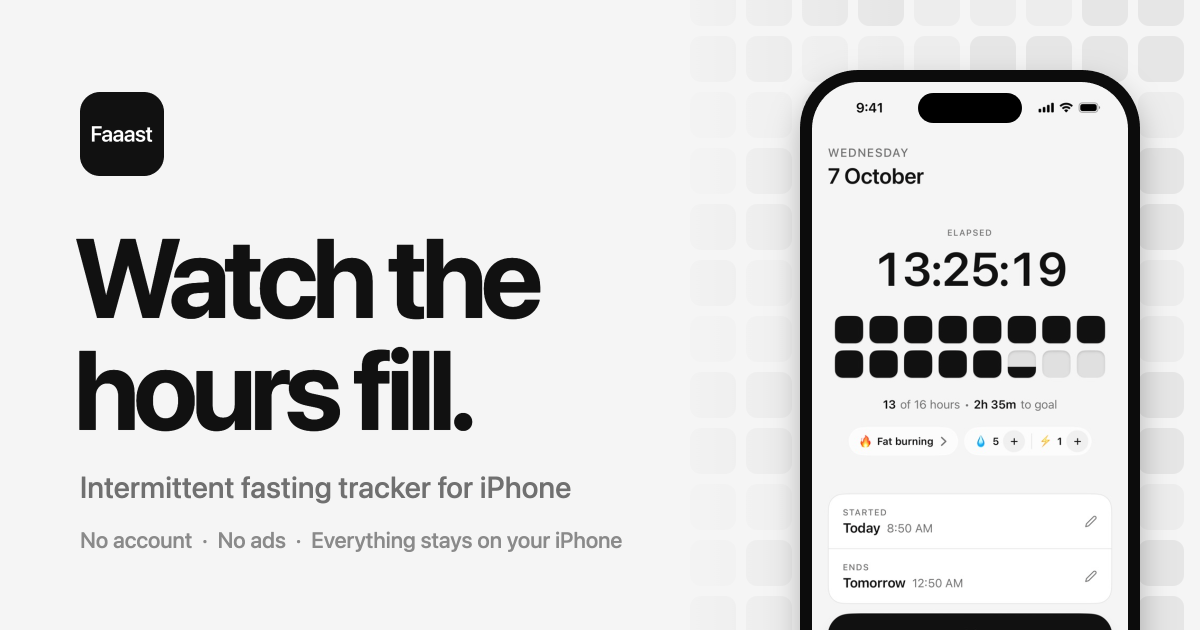
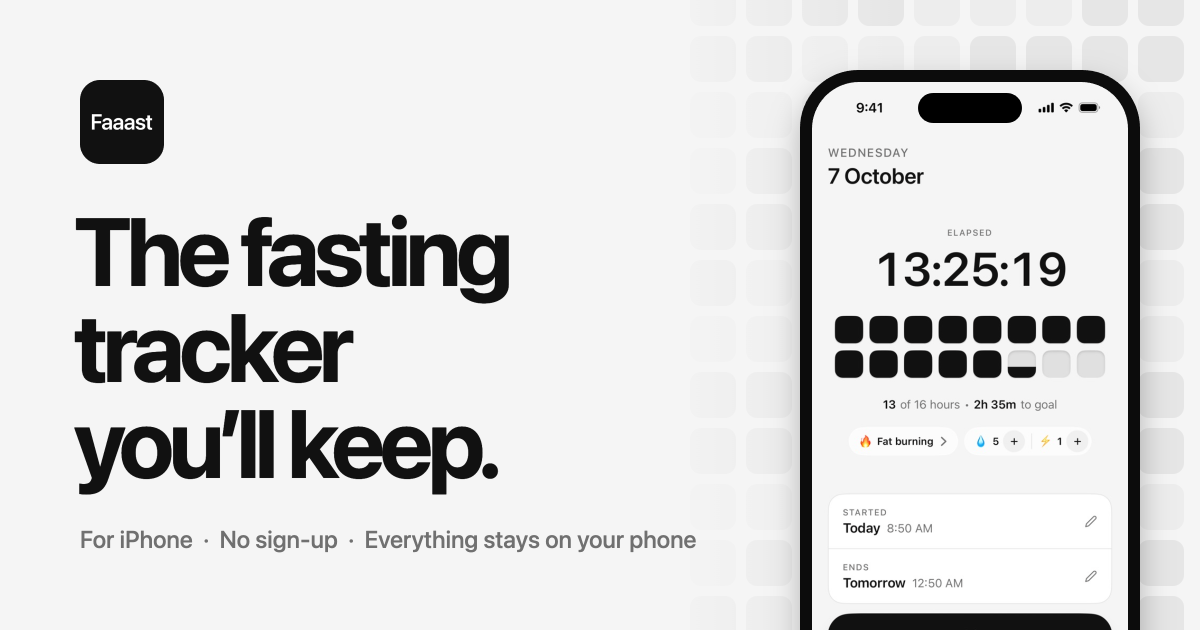
Hero: "The fasting tracker you'll keep."
Replaces "Watch the hours fill." The eyebrow becomes "Faaast for iPhone"
so it doesn't repeat "fasting tracker"; headline size adjusted for the
longer line. Share titles and the share card (img/og.png) updated.

diff --git a/index.html b/index.html
@@ -10,14 +10,14 @@
 <meta property="og:type" content="website">
 <meta property="og:site_name" content="Faaast">
 <meta property="og:url" content="https://faaast.arecon.eu/">
-<meta property="og:title" content="Faaast · Watch the hours fill">
+<meta property="og:title" content="Faaast · The fasting tracker you’ll keep">
 <meta property="og:description" content="The intermittent fasting tracker that does it all, and keeps it to itself. No account, no ads.">
 <meta property="og:image" content="https://faaast.arecon.eu/img/og.png">
 <meta property="og:image:width" content="1200">
 <meta property="og:image:height" content="630">
-<meta property="og:image:alt" content="Faaast: Watch the hours fill. The app's timer with hour blocks filling.">
+<meta property="og:image:alt" content="Faaast: The fasting tracker you’ll keep. The app’s timer with hour blocks filling.">
 <meta name="twitter:card" content="summary_large_image">
-<meta name="twitter:title" content="Faaast · Watch the hours fill">
+<meta name="twitter:title" content="Faaast · The fasting tracker you’ll keep">
 <meta name="twitter:description" content="The intermittent fasting tracker that does it all, and keeps it to itself. No account, no ads.">
 <meta name="twitter:image" content="https://faaast.arecon.eu/img/og.png">
 <script type="application/ld+json">
@@ -126,10 +126,10 @@
 <!-- Hero -->
 <section class="hero" id="hero">
   <div class="hero-copy">
-    <p class="eyebrow reveal-load" style="--d:0">Intermittent fasting tracker for iPhone</p>
+    <p class="eyebrow reveal-load" style="--d:0">Faaast for iPhone</p>
     <h1 class="hero-title">
-      <span class="line"><span class="reveal-load" style="--d:1">Watch the</span></span>
-      <span class="line"><span class="reveal-load" style="--d:2">hours fill.</span></span>
+      <span class="line"><span class="reveal-load" style="--d:1">The fasting tracker</span></span>
+      <span class="line"><span class="reveal-load" style="--d:2">you’ll keep.</span></span>
     </h1>
     <p class="hero-sub reveal-load" style="--d:3">Start a fast and every hour you get through fills a block. You can see how far you’ve come, and the last few hours get a lot easier.</p>
     <div class="hero-cta reveal-load" style="--d:4">

diff --git a/styles.css b/styles.css
@@ -418,3 +418,4 @@ p, dd, li { text-wrap: pretty; }
 .nav-logo { justify-self: start; }
 .nav > .btn { justify-self: end; }
 @media (max-width: 900px) { .nav { grid-template-columns: 1fr auto; } }
+.hero-title { font-size: clamp(44px, 8.6vw, 116px); }
